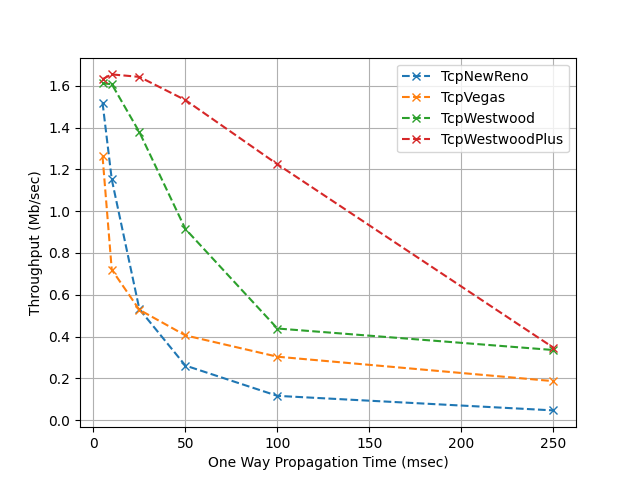
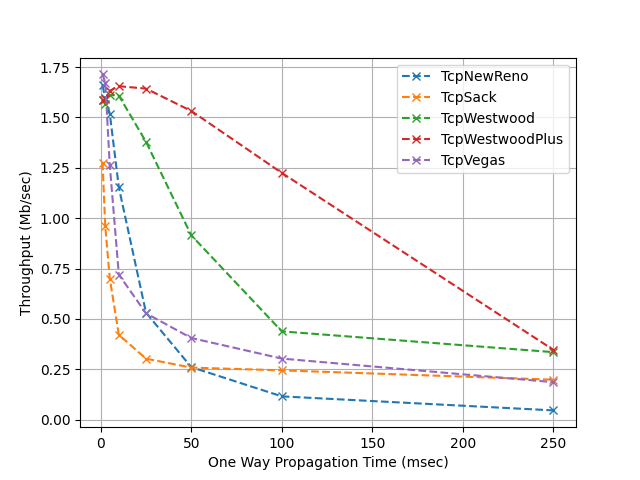
Updates to figure 10

diff --git a/scratch/figure10/figure10.cc b/scratch/figure10/figure10.cc
@@ -111,15 +111,13 @@ int main (int argc, char *argv[])
   uint32_t tcp_adu_size = mtu_bytes - 20 - (ip_header + tcp_header);
 
   /******** Set TCP defaults ********/
-  Config::SetDefault ("ns3::TcpSocket::RcvBufSize", UintegerValue (1 << 21));
-  Config::SetDefault ("ns3::TcpSocket::SndBufSize", UintegerValue (1 << 21));
-  Config::SetDefault ("ns3::TcpSocketBase::Sack", BooleanValue (sack));
-  Config::SetDefault ("ns3::TcpL4Protocol::RecoveryType",
-                      TypeIdValue (TypeId::LookupByName (recovery)));
-  Config::SetDefault("ns3::TcpWestwood::FilterType", EnumValue(TcpWestwood::TUSTIN));
-
   // Select TCP variant
-  if (transport_prot.compare ("ns3::TcpWestwoodPlus") == 0)
+  if (transport_prot.compare ("ns3::TcpSack") == 0)
+  {
+    sack = true;
+    transport_prot = std::string ("ns3::TcpNewReno");
+  }
+  else if (transport_prot.compare ("ns3::TcpWestwoodPlus") == 0)
   {
     // TcpWestwoodPlus is not an actual TypeId name; we need TcpWestwood here
     Config::SetDefault ("ns3::TcpL4Protocol::SocketType", TypeIdValue (TcpWestwood::GetTypeId ()));
@@ -132,6 +130,12 @@ int main (int argc, char *argv[])
     NS_ABORT_MSG_UNLESS (TypeId::LookupByNameFailSafe (transport_prot, &tcpTid), "TypeId " << transport_prot << " not found");
     Config::SetDefault ("ns3::TcpL4Protocol::SocketType", TypeIdValue (TypeId::LookupByName (transport_prot)));
   }
+  Config::SetDefault ("ns3::TcpSocket::RcvBufSize", UintegerValue (1 << 21));
+  Config::SetDefault ("ns3::TcpSocket::SndBufSize", UintegerValue (1 << 21));
+  Config::SetDefault ("ns3::TcpSocketBase::Sack", BooleanValue (sack));
+  Config::SetDefault ("ns3::TcpL4Protocol::RecoveryType",
+                      TypeIdValue (TypeId::LookupByName (recovery)));
+  Config::SetDefault("ns3::TcpWestwood::FilterType", EnumValue(TcpWestwood::TUSTIN));
 
   // Create gateways, sources, and sinks
   NodeContainer gateways;

diff --git a/scratch/figure10/figure10.py b/scratch/figure10/figure10.py
@@ -6,8 +6,8 @@ import numpy as np
 # Plot the Throughput over Delay
 
 dir = "outputs/figure10/"
-algorithms = ["TcpNewReno", "TcpVegas", "TcpWestwood", "TcpWestwoodPlus"]
-delays = [5, 10, 25, 50, 100, 250]
+algorithms = ["TcpNewReno", "TcpSack", "TcpWestwood", "TcpWestwoodPlus", "TcpVegas"]
+delays = [1, 2.5, 5, 10, 25, 50, 100, 250]
 
 plt.figure()
 for a in algorithms:
